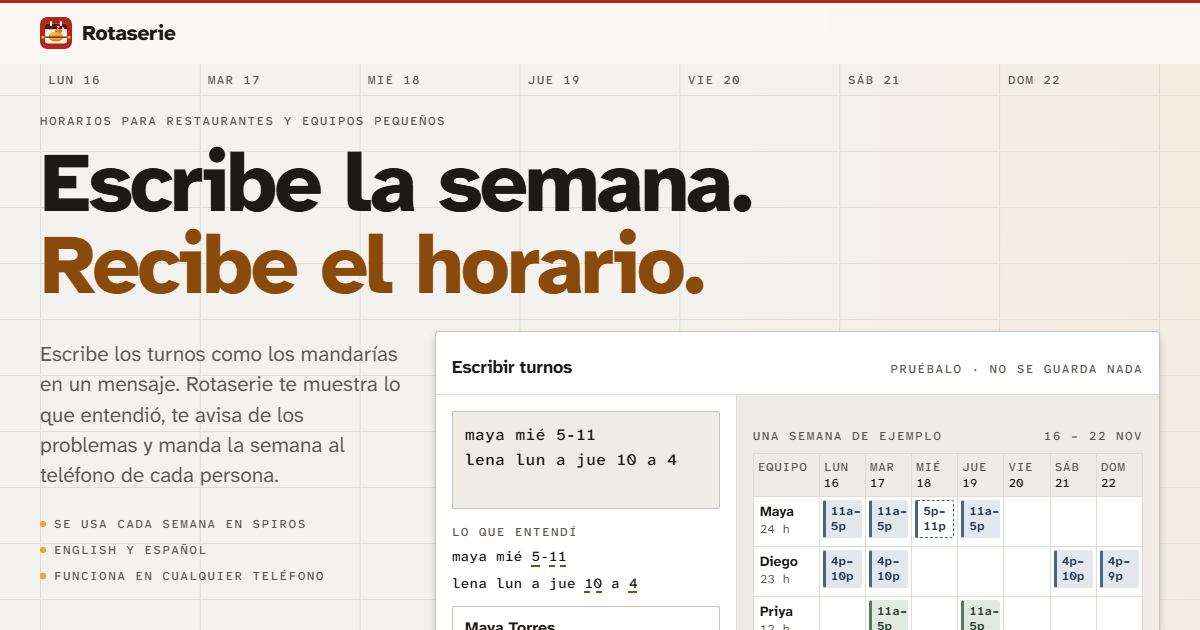
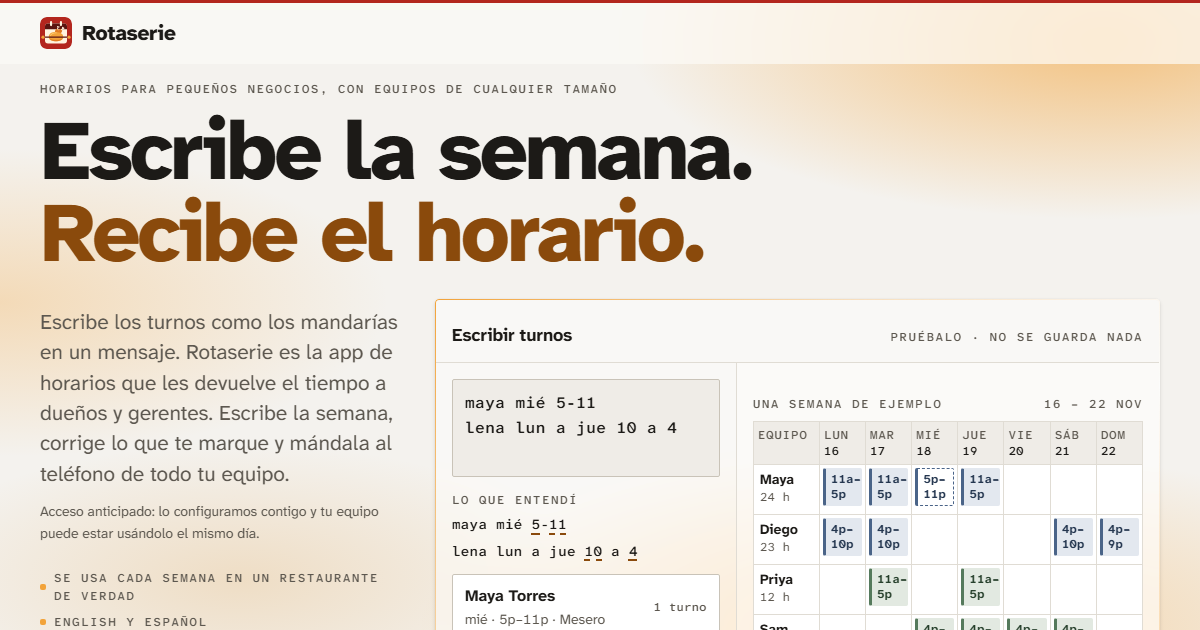
Home: say what early access means; proof line a stranger understands
- Under the hero buttons: "Early access: we set it up with you, and your team can be on it the same day." (+ Spanish)
- Proof row: "Used every week at a real restaurant" instead of a name visitors don't know yet (Spiros stays in its
  own section and on About).
- Share pictures remade from the current page (today's wording, gold background).
Approved by Robert.

Claude-Session: https://claude.ai/code/session_013hMaFr2MkEM8KF7tR8rv6R

diff --git a/es/index.html b/es/index.html
@@ -1,5 +1,5 @@
 <!doctype html>
-<html lang="es" data-v="a6aaee4e75">
+<html lang="es" data-v="c778a1f419">
 <head>
 <meta charset="utf-8">
 <meta name="viewport" content="width=device-width, initial-scale=1, viewport-fit=cover">
@@ -28,9 +28,9 @@
 <link rel="apple-touch-icon" href="../img/apple-touch-icon.png">
 <link rel="preload" href="../fonts/atkinson-next.woff2" as="font" type="font/woff2" crossorigin>
 <script>document.documentElement.classList.add("js");try{var t=localStorage.getItem("sb-theme");if(t)document.documentElement.dataset.theme=t}catch(e){}</script>
-<link rel="stylesheet" href="../tokens.css?v=a6aaee4e75">
-<link rel="stylesheet" href="../styles.css?v=a6aaee4e75">
-<script src="../site.js?v=a6aaee4e75" defer></script>
+<link rel="stylesheet" href="../tokens.css?v=c778a1f419">
+<link rel="stylesheet" href="../styles.css?v=c778a1f419">
+<script src="../site.js?v=c778a1f419" defer></script>
 <script type="application/ld+json">{"@context":"https://schema.org","@graph":[
 {"@type":"Organization","@id":"https://rotaserie.com/#org","name":"Rotaserie","legalName":"TICO VENTURES LLC","url":"https://rotaserie.com/","logo":"https://rotaserie.com/img/apple-touch-icon.png","email":"robert@rotaserie.com","address":{"@type":"PostalAddress","addressLocality":"Shoreline","addressRegion":"WA","addressCountry":"US"}},
 {"@type":"SoftwareApplication","name":"Rotaserie","url":"https://rotaserie.com/es/","applicationCategory":"BusinessApplication","operatingSystem":"Any (web browser)","inLanguage":["en","es"],"description":"Horarios para pequeños negocios con equipos de cualquier tamaño, hecho en un restaurante de verdad. Escribe “maría mar a vie 9 a 5” y aparecen los turnos. Te avisa de los problemas mientras armas el horario, y la semana publicada le llega a cada persona por correo y aviso al teléfono.","image":"https://rotaserie.com/img/share-es.png","publisher":{"@id":"https://rotaserie.com/#org"}},
@@ -79,9 +79,10 @@
           <a class="btn btn-big" href="#start" data-start>Pide acceso anticipado</a>
           <a class="btn btn-big btn-ghost" href="../img/film/film-es-720.h264.mp4" data-film-go><svg viewBox="0 0 24 24" aria-hidden="true"><path d="M8 5.5v13l10.5-6.5z"/></svg>Mira la película <span class="num">1:32</span></a>
         </div>
-        <ul class="proof"><li>Se usa cada semana en Spiros</li><li>English y español</li><li>Funciona en cualquier teléfono</li></ul>
+        <p class="cta-note">Acceso anticipado: lo configuramos contigo y tu equipo puede estar usándolo el mismo día.</p>
+        <ul class="proof"><li>Se usa cada semana en un restaurante de verdad</li><li>English y español</li><li>Funciona en cualquier teléfono</li></ul>
       </div>
-      <div class="pane ttb" id="try" data-ttb data-lang="es" data-live data-src="../demo/ttb.js?v=a6aaee4e75">
+      <div class="pane ttb" id="try" data-ttb data-lang="es" data-live data-src="../demo/ttb.js?v=c778a1f419">
         <div class="ttb-head"><b>Escribir turnos</b><span class="label">Pruébalo · no se guarda nada</span></div>
         <div class="ttb-body">
           <div class="ttb-box">
@@ -161,7 +162,7 @@ lena lun a jue 10 a 4</textarea>
 <section class="sec sec-alt" id="owners">
   <div class="wrap">
     <header class="sec-head"><p class="label"><span class="idx">02</span>Para dueños y gerentes</p><h2>Tú sigues al mando. <em>Rotaserie hace la revisión.</em></h2></header>
-    <div class="pane week-demo" id="week" data-week data-lang="es" data-live data-src="../demo/week.js?v=a6aaee4e75" data-needs="state.js">
+    <div class="pane week-demo" id="week" data-week data-lang="es" data-live data-src="../demo/week.js?v=c778a1f419" data-needs="state.js">
       <div class="week-head">
         <div><p class="label">Prueba la semana</p><h3>Mueve un turno. Mira lo que te dice.</h3></div>
         <div class="seg" role="group" aria-label="De quién es la vista"><button type="button" data-week-view="manager" aria-pressed="true">Gerente</button><button type="button" data-week-view="employee" aria-pressed="false">Empleado</button></div>
@@ -235,7 +236,7 @@ lena lun a jue 10 a 4</textarea>
 
 <!-- THE SWAP: the app's four steps, with both phones -->
 <section class="sec" id="swap">
-  <div class="wrap swap" data-swap data-lang="es" data-live data-src="../demo/swap.js?v=a6aaee4e75">
+  <div class="wrap swap" data-swap data-lang="es" data-live data-src="../demo/swap.js?v=c778a1f419">
     <div class="swap-text">
       <header class="sec-head"><p class="label"><span class="idx">03</span>El cambio, de los dos lados</p><h2>Un cambio de turno sin el chat de grupo.</h2><p class="lead">Cuatro pasos, como lo hace la app.</p></header>
       <ol class="steps">

diff --git a/index.html b/index.html
@@ -1,5 +1,5 @@
 <!doctype html>
-<html lang="en" data-v="a6aaee4e75">
+<html lang="en" data-v="c778a1f419">
 <head>
 <meta charset="utf-8">
 <meta name="viewport" content="width=device-width, initial-scale=1, viewport-fit=cover">
@@ -28,9 +28,9 @@
 <link rel="apple-touch-icon" href="img/apple-touch-icon.png">
 <link rel="preload" href="fonts/atkinson-next.woff2" as="font" type="font/woff2" crossorigin>
 <script>document.documentElement.classList.add("js");try{var t=localStorage.getItem("sb-theme");if(t)document.documentElement.dataset.theme=t}catch(e){}</script>
-<link rel="stylesheet" href="tokens.css?v=a6aaee4e75">
-<link rel="stylesheet" href="styles.css?v=a6aaee4e75">
-<script src="site.js?v=a6aaee4e75" defer></script>
+<link rel="stylesheet" href="tokens.css?v=c778a1f419">
+<link rel="stylesheet" href="styles.css?v=c778a1f419">
+<script src="site.js?v=c778a1f419" defer></script>
 <script type="application/ld+json">{"@context":"https://schema.org","@graph":[
 {"@type":"Organization","@id":"https://rotaserie.com/#org","name":"Rotaserie","legalName":"TICO VENTURES LLC","url":"https://rotaserie.com/","logo":"https://rotaserie.com/img/apple-touch-icon.png","email":"robert@rotaserie.com","address":{"@type":"PostalAddress","addressLocality":"Shoreline","addressRegion":"WA","addressCountry":"US"}},
 {"@type":"SoftwareApplication","name":"Rotaserie","url":"https://rotaserie.com/","applicationCategory":"BusinessApplication","operatingSystem":"Any (web browser)","inLanguage":["en","es"],"description":"Small business scheduling for teams of any size, built at a working restaurant. Type “maria tue-fri 9-5” and the shifts appear. Problems are flagged as you build, and the published week goes to everyone by email and phone alert.","image":"https://rotaserie.com/img/share-en.png","publisher":{"@id":"https://rotaserie.com/#org"}},
@@ -80,9 +80,10 @@
           <a class="btn btn-big" href="#start" data-start>Get early access</a>
           <a class="btn btn-big btn-ghost" href="img/film/film-720.h264.mp4" data-film-go><svg viewBox="0 0 24 24" aria-hidden="true"><path d="M8 5.5v13l10.5-6.5z"/></svg>Watch the film <span class="num">1:32</span></a>
         </div>
-        <ul class="proof"><li>Used every week at Spiros</li><li>English y español</li><li>Works on any phone</li></ul>
+        <p class="cta-note">Early access: we set it up with you, and your team can be on it the same day.</p>
+        <ul class="proof"><li>Used every week at a real restaurant</li><li>English y español</li><li>Works on any phone</li></ul>
       </div>
-      <div class="pane ttb" id="try" data-ttb data-lang="en" data-live data-src="demo/ttb.js?v=a6aaee4e75">
+      <div class="pane ttb" id="try" data-ttb data-lang="en" data-live data-src="demo/ttb.js?v=c778a1f419">
         <div class="ttb-head"><b>Type to build</b><span class="label">Try it · nothing is saved</span></div>
         <div class="ttb-body">
           <div class="ttb-box">
@@ -162,7 +163,7 @@ lena m-th 10-4</textarea>
 <section class="sec sec-alt" id="owners">
   <div class="wrap">
     <header class="sec-head"><p class="label"><span class="idx">02</span>For owners and managers</p><h2>You stay in charge. <em>Rotaserie does the checking.</em></h2></header>
-    <div class="pane week-demo" id="week" data-week data-lang="en" data-live data-src="demo/week.js?v=a6aaee4e75" data-needs="state.js">
+    <div class="pane week-demo" id="week" data-week data-lang="en" data-live data-src="demo/week.js?v=c778a1f419" data-needs="state.js">
       <div class="week-head">
         <div><p class="label">Try the week</p><h3>Move a shift. See what it says.</h3></div>
         <div class="seg" role="group" aria-label="Whose view"><button type="button" data-week-view="manager" aria-pressed="true">Manager</button><button type="button" data-week-view="employee" aria-pressed="false">Employee</button></div>
@@ -236,7 +237,7 @@ lena m-th 10-4</textarea>
 
 <!-- THE SWAP: the app's four steps, with both phones -->
 <section class="sec" id="swap">
-  <div class="wrap swap" data-swap data-lang="en" data-live data-src="demo/swap.js?v=a6aaee4e75">
+  <div class="wrap swap" data-swap data-lang="en" data-live data-src="demo/swap.js?v=c778a1f419">
     <div class="swap-text">
       <header class="sec-head"><p class="label"><span class="idx">03</span>The swap, both sides</p><h2>A swap without the group text.</h2><p class="lead">Four steps, as the app does it.</p></header>
       <ol class="steps">

diff --git a/es/about.html b/es/about.html
@@ -1,5 +1,5 @@
 <!doctype html>
-<html lang="es" data-v="a6aaee4e75">
+<html lang="es" data-v="c778a1f419">
 <head>
 <meta charset="utf-8">
 <meta name="viewport" content="width=device-width, initial-scale=1, viewport-fit=cover">
@@ -28,9 +28,9 @@
 <link rel="apple-touch-icon" href="../img/apple-touch-icon.png">
 <link rel="preload" href="../fonts/atkinson-next.woff2" as="font" type="font/woff2" crossorigin>
 <script>document.documentElement.classList.add("js");try{var t=localStorage.getItem("sb-theme");if(t)document.documentElement.dataset.theme=t}catch(e){}</script>
-<link rel="stylesheet" href="../tokens.css?v=a6aaee4e75">
-<link rel="stylesheet" href="../styles.css?v=a6aaee4e75">
-<script src="../site.js?v=a6aaee4e75" defer></script>
+<link rel="stylesheet" href="../tokens.css?v=c778a1f419">
+<link rel="stylesheet" href="../styles.css?v=c778a1f419">
+<script src="../site.js?v=c778a1f419" defer></script>
 </head>
 <body>
 <a class="skip" href="#main">Ir al contenido</a>

diff --git a/es/facts.html b/es/facts.html
@@ -1,5 +1,5 @@
 <!doctype html>
-<html lang="es" data-v="a6aaee4e75">
+<html lang="es" data-v="c778a1f419">
 <head>
 <meta charset="utf-8">
 <meta name="viewport" content="width=device-width, initial-scale=1, viewport-fit=cover">
@@ -28,9 +28,9 @@
 <link rel="apple-touch-icon" href="../img/apple-touch-icon.png">
 <link rel="preload" href="../fonts/atkinson-next.woff2" as="font" type="font/woff2" crossorigin>
 <script>document.documentElement.classList.add("js");try{var t=localStorage.getItem("sb-theme");if(t)document.documentElement.dataset.theme=t}catch(e){}</script>
-<link rel="stylesheet" href="../tokens.css?v=a6aaee4e75">
-<link rel="stylesheet" href="../styles.css?v=a6aaee4e75">
-<script src="../site.js?v=a6aaee4e75" defer></script>
+<link rel="stylesheet" href="../tokens.css?v=c778a1f419">
+<link rel="stylesheet" href="../styles.css?v=c778a1f419">
+<script src="../site.js?v=c778a1f419" defer></script>
 </head>
 <body>
 <a class="skip" href="#main">Ir al contenido</a>

diff --git a/es/privacy.html b/es/privacy.html
@@ -1,5 +1,5 @@
 <!doctype html>
-<html lang="es" data-v="a6aaee4e75">
+<html lang="es" data-v="c778a1f419">
 <head>
 <meta charset="utf-8">
 <meta name="viewport" content="width=device-width, initial-scale=1, viewport-fit=cover">
@@ -27,9 +27,9 @@
 <link rel="apple-touch-icon" href="../img/apple-touch-icon.png">
 <link rel="preload" href="../fonts/atkinson-next.woff2" as="font" type="font/woff2" crossorigin>
 <script>document.documentElement.classList.add("js");try{var t=localStorage.getItem("sb-theme");if(t)document.documentElement.dataset.theme=t}catch(e){}</script>
-<link rel="stylesheet" href="../tokens.css?v=a6aaee4e75">
-<link rel="stylesheet" href="../styles.css?v=a6aaee4e75">
-<script src="../site.js?v=a6aaee4e75" defer></script>
+<link rel="stylesheet" href="../tokens.css?v=c778a1f419">
+<link rel="stylesheet" href="../styles.css?v=c778a1f419">
+<script src="../site.js?v=c778a1f419" defer></script>
 </head>
 <body>
 <a class="skip" href="#main">Ir al contenido</a>

diff --git a/es/terms.html b/es/terms.html
@@ -1,5 +1,5 @@
 <!doctype html>
-<html lang="es" data-v="a6aaee4e75">
+<html lang="es" data-v="c778a1f419">
 <head>
 <meta charset="utf-8">
 <meta name="viewport" content="width=device-width, initial-scale=1, viewport-fit=cover">
@@ -27,9 +27,9 @@
 <link rel="apple-touch-icon" href="../img/apple-touch-icon.png">
 <link rel="preload" href="../fonts/atkinson-next.woff2" as="font" type="font/woff2" crossorigin>
 <script>document.documentElement.classList.add("js");try{var t=localStorage.getItem("sb-theme");if(t)document.documentElement.dataset.theme=t}catch(e){}</script>
-<link rel="stylesheet" href="../tokens.css?v=a6aaee4e75">
-<link rel="stylesheet" href="../styles.css?v=a6aaee4e75">
-<script src="../site.js?v=a6aaee4e75" defer></script>
+<link rel="stylesheet" href="../tokens.css?v=c778a1f419">
+<link rel="stylesheet" href="../styles.css?v=c778a1f419">
+<script src="../site.js?v=c778a1f419" defer></script>
 </head>
 <body>
 <a class="skip" href="#main">Ir al contenido</a>

diff --git a/404.html b/404.html
@@ -1,5 +1,5 @@
 <!doctype html>
-<html lang="en" data-v="a6aaee4e75">
+<html lang="en" data-v="c778a1f419">
 <head>
 <meta charset="utf-8">
 <meta name="viewport" content="width=device-width, initial-scale=1, viewport-fit=cover">
@@ -23,9 +23,9 @@
 <link rel="apple-touch-icon" href="/img/apple-touch-icon.png">
 <link rel="preload" href="/fonts/atkinson-next.woff2" as="font" type="font/woff2" crossorigin>
 <script>document.documentElement.classList.add("js");try{var t=localStorage.getItem("sb-theme");if(t)document.documentElement.dataset.theme=t}catch(e){}</script>
-<link rel="stylesheet" href="/tokens.css?v=a6aaee4e75">
-<link rel="stylesheet" href="/styles.css?v=a6aaee4e75">
-<script src="/site.js?v=a6aaee4e75" defer></script>
+<link rel="stylesheet" href="/tokens.css?v=c778a1f419">
+<link rel="stylesheet" href="/styles.css?v=c778a1f419">
+<script src="/site.js?v=c778a1f419" defer></script>
 </head>
 <body>
 <a class="skip" href="#main">Skip to content</a>

diff --git a/about.html b/about.html
@@ -1,5 +1,5 @@
 <!doctype html>
-<html lang="en" data-v="a6aaee4e75">
+<html lang="en" data-v="c778a1f419">
 <head>
 <meta charset="utf-8">
 <meta name="viewport" content="width=device-width, initial-scale=1, viewport-fit=cover">
@@ -28,9 +28,9 @@
 <link rel="apple-touch-icon" href="img/apple-touch-icon.png">
 <link rel="preload" href="fonts/atkinson-next.woff2" as="font" type="font/woff2" crossorigin>
 <script>document.documentElement.classList.add("js");try{var t=localStorage.getItem("sb-theme");if(t)document.documentElement.dataset.theme=t}catch(e){}</script>
-<link rel="stylesheet" href="tokens.css?v=a6aaee4e75">
-<link rel="stylesheet" href="styles.css?v=a6aaee4e75">
-<script src="site.js?v=a6aaee4e75" defer></script>
+<link rel="stylesheet" href="tokens.css?v=c778a1f419">
+<link rel="stylesheet" href="styles.css?v=c778a1f419">
+<script src="site.js?v=c778a1f419" defer></script>
 </head>
 <body>
 <a class="skip" href="#main">Skip to content</a>

diff --git a/facts.html b/facts.html
@@ -1,5 +1,5 @@
 <!doctype html>
-<html lang="en" data-v="a6aaee4e75">
+<html lang="en" data-v="c778a1f419">
 <head>
 <meta charset="utf-8">
 <meta name="viewport" content="width=device-width, initial-scale=1, viewport-fit=cover">
@@ -28,9 +28,9 @@
 <link rel="apple-touch-icon" href="img/apple-touch-icon.png">
 <link rel="preload" href="fonts/atkinson-next.woff2" as="font" type="font/woff2" crossorigin>
 <script>document.documentElement.classList.add("js");try{var t=localStorage.getItem("sb-theme");if(t)document.documentElement.dataset.theme=t}catch(e){}</script>
-<link rel="stylesheet" href="tokens.css?v=a6aaee4e75">
-<link rel="stylesheet" href="styles.css?v=a6aaee4e75">
-<script src="site.js?v=a6aaee4e75" defer></script>
+<link rel="stylesheet" href="tokens.css?v=c778a1f419">
+<link rel="stylesheet" href="styles.css?v=c778a1f419">
+<script src="site.js?v=c778a1f419" defer></script>
 </head>
 <body>
 <a class="skip" href="#main">Skip to content</a>

diff --git a/privacy.html b/privacy.html
@@ -1,5 +1,5 @@
 <!doctype html>
-<html lang="en" data-v="a6aaee4e75">
+<html lang="en" data-v="c778a1f419">
 <head>
 <meta charset="utf-8">
 <meta name="viewport" content="width=device-width, initial-scale=1, viewport-fit=cover">
@@ -27,9 +27,9 @@
 <link rel="apple-touch-icon" href="img/apple-touch-icon.png">
 <link rel="preload" href="fonts/atkinson-next.woff2" as="font" type="font/woff2" crossorigin>
 <script>document.documentElement.classList.add("js");try{var t=localStorage.getItem("sb-theme");if(t)document.documentElement.dataset.theme=t}catch(e){}</script>
-<link rel="stylesheet" href="tokens.css?v=a6aaee4e75">
-<link rel="stylesheet" href="styles.css?v=a6aaee4e75">
-<script src="site.js?v=a6aaee4e75" defer></script>
+<link rel="stylesheet" href="tokens.css?v=c778a1f419">
+<link rel="stylesheet" href="styles.css?v=c778a1f419">
+<script src="site.js?v=c778a1f419" defer></script>
 </head>
 <body>
 <a class="skip" href="#main">Skip to content</a>

diff --git a/terms.html b/terms.html
@@ -1,5 +1,5 @@
 <!doctype html>
-<html lang="en" data-v="a6aaee4e75">
+<html lang="en" data-v="c778a1f419">
 <head>
 <meta charset="utf-8">
 <meta name="viewport" content="width=device-width, initial-scale=1, viewport-fit=cover">
@@ -27,9 +27,9 @@
 <link rel="apple-touch-icon" href="img/apple-touch-icon.png">
 <link rel="preload" href="fonts/atkinson-next.woff2" as="font" type="font/woff2" crossorigin>
 <script>document.documentElement.classList.add("js");try{var t=localStorage.getItem("sb-theme");if(t)document.documentElement.dataset.theme=t}catch(e){}</script>
-<link rel="stylesheet" href="tokens.css?v=a6aaee4e75">
-<link rel="stylesheet" href="styles.css?v=a6aaee4e75">
-<script src="site.js?v=a6aaee4e75" defer></script>
+<link rel="stylesheet" href="tokens.css?v=c778a1f419">
+<link rel="stylesheet" href="styles.css?v=c778a1f419">
+<script src="site.js?v=c778a1f419" defer></script>
 </head>
 <body>
 <a class="skip" href="#main">Skip to content</a>

diff --git a/_src/pages/index.html b/_src/pages/index.html
@@ -17,6 +17,7 @@
           <a class="btn btn-big" href="#start" data-start>{{cta}}</a>
           <a class="btn btn-big btn-ghost" href="{{base}}img/film/film{{home.film.suffix}}-720.h264.mp4" data-film-go><svg viewBox="0 0 24 24" aria-hidden="true"><path d="M8 5.5v13l10.5-6.5z"/></svg>{{home.hero.film}} <span class="num">{{home.hero.film_len}}</span></a>
         </div>
+        <p class="cta-note">{{home.hero.cta_note}}</p>
         <ul class="proof">{{#each home.hero.proof}}<li>{{this}}</li>{{/each}}</ul>
       </div>
       {{> ttb}}
